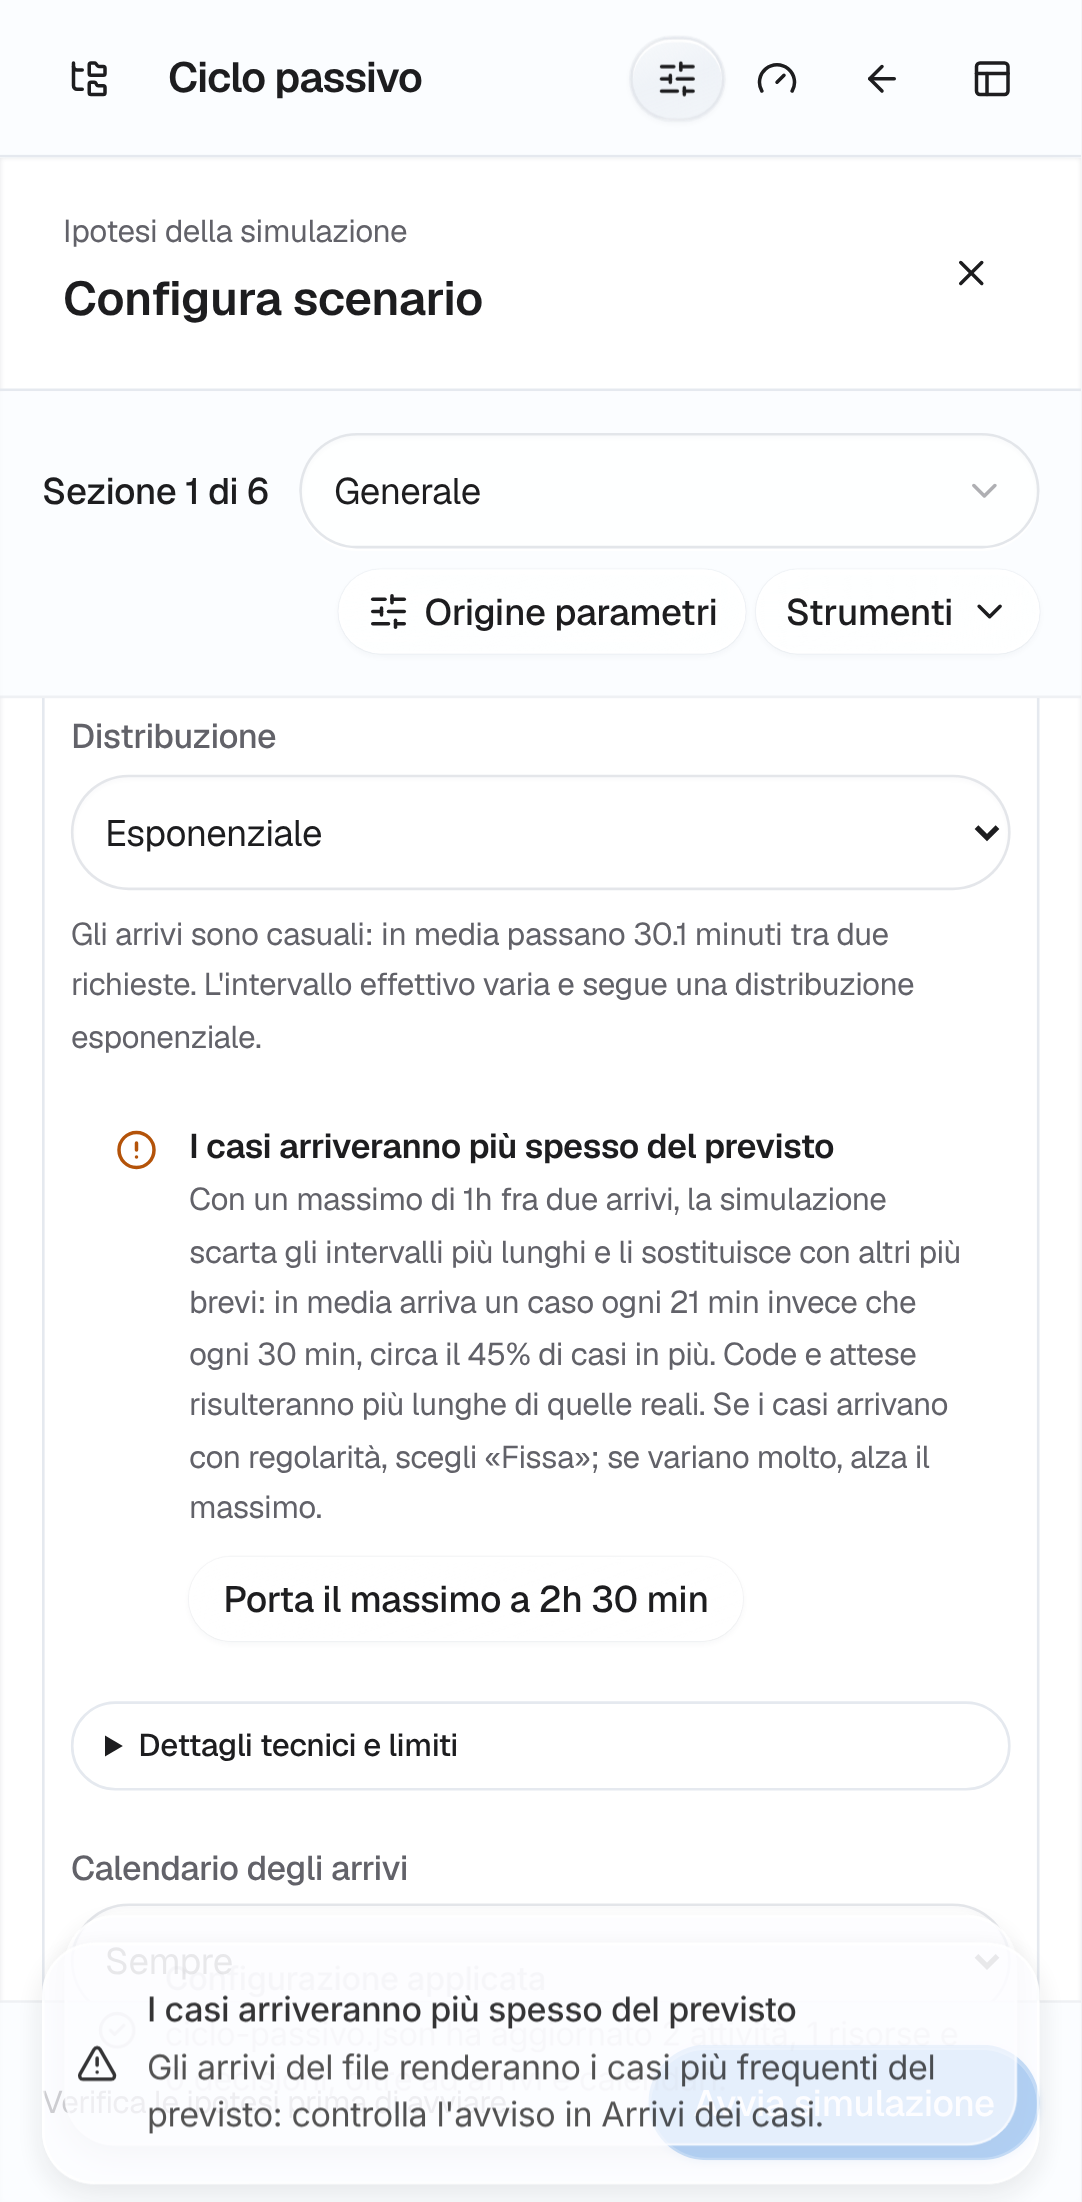
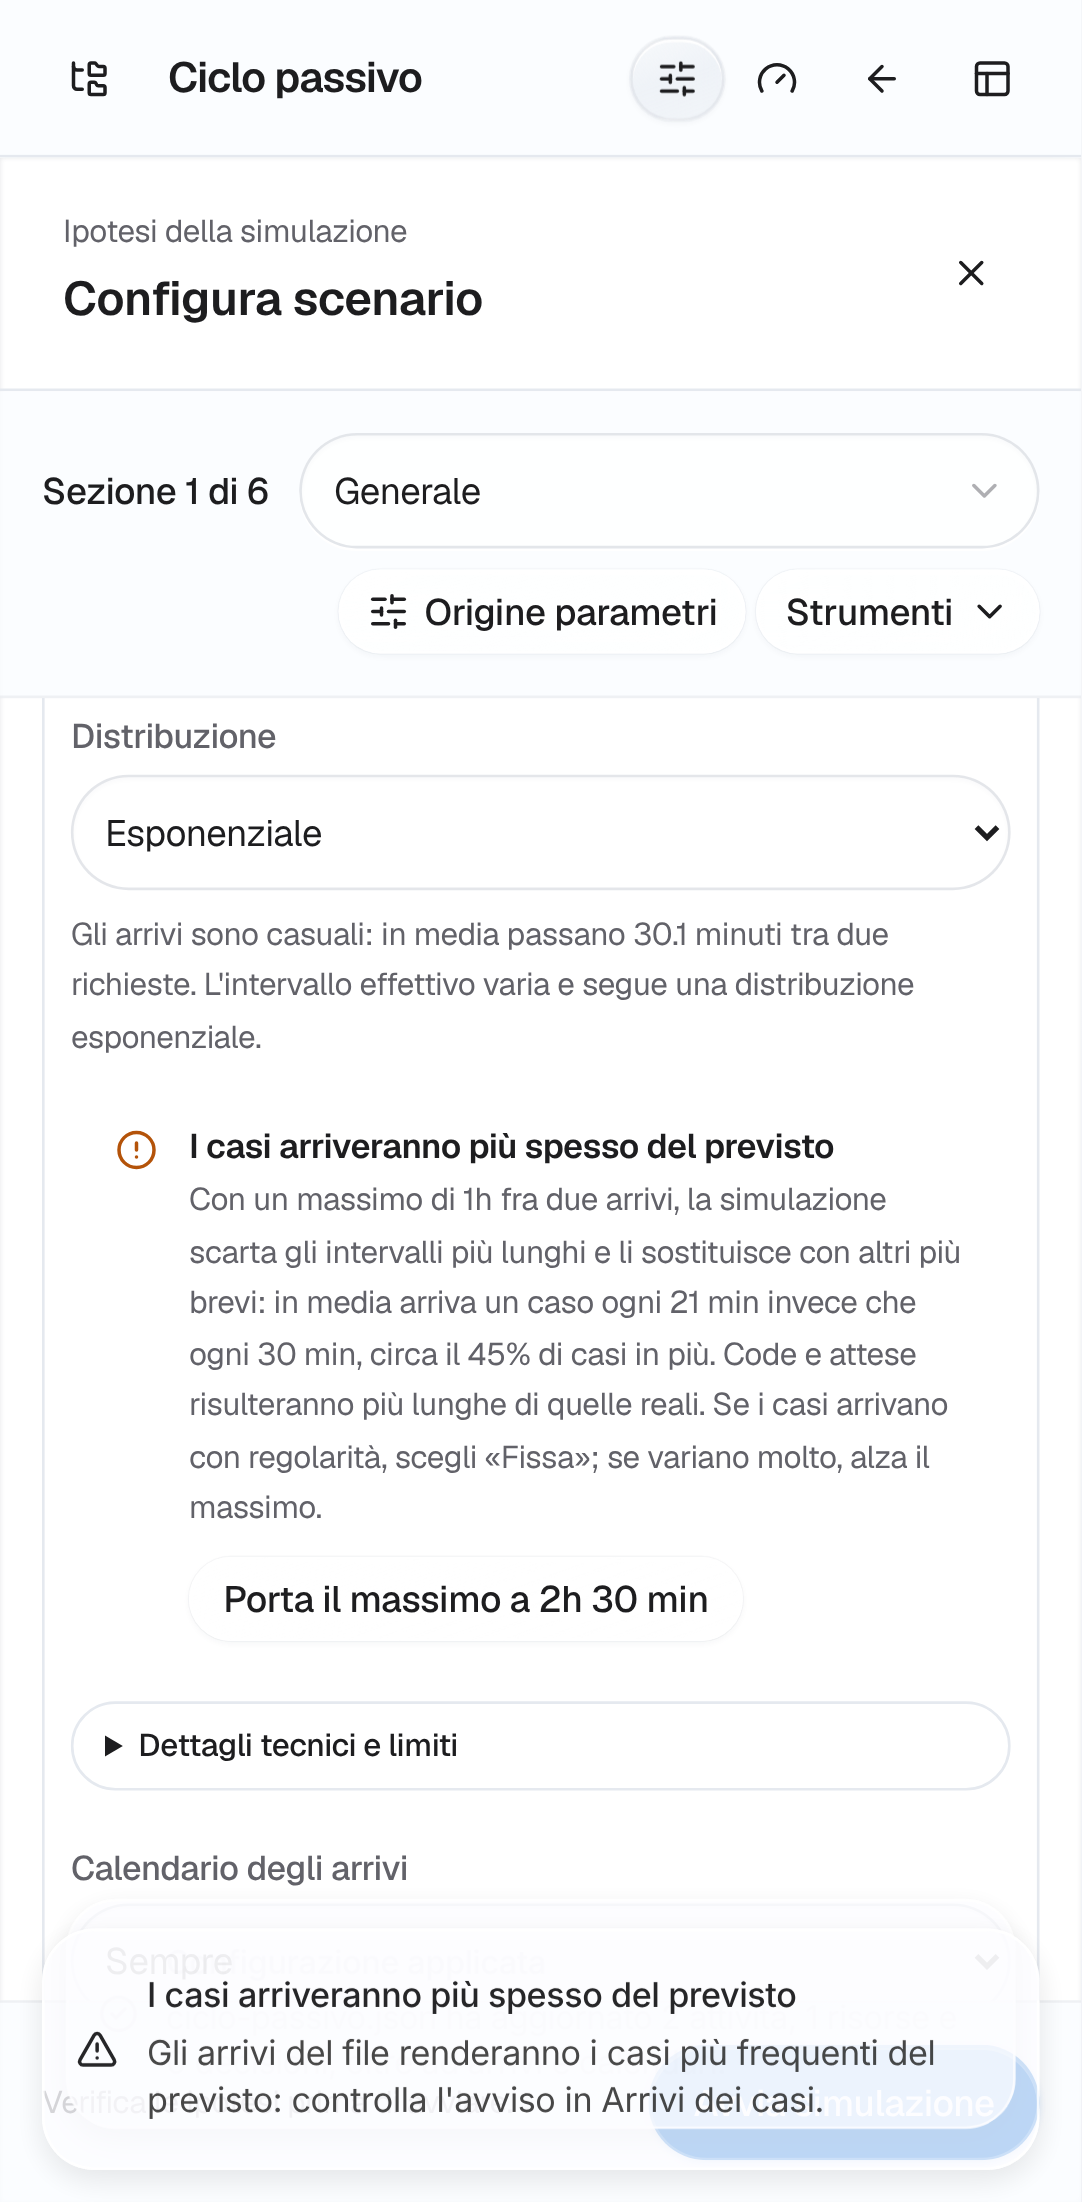
docs(vpt): IMP-01 done in plan, handoff and log

Changed region(s): [[0.061, 0.8955, 0.9455, 0.9882]]

diff --git a/docs/vpt/LOG.md b/docs/vpt/LOG.md
@@ -18,6 +18,47 @@ Modello:
 
 ---
 
+## 2026-11-24 — IMP-01 avviso sugli arrivi troncati — fatto
+
+- Branch / PR: `feat/sim-import-expon-warning`.
+- Meta: importando uno scenario con arrivi `expon` e media vicina al massimo, DeliR
+  avvisa in linguaggio di business con cosa cambia e cosa fare; lo scenario resta
+  com'era; avvisano le 4 Procure_to_Pay, nessuno dei 15 altri; gate UX → raggiunta.
+  Misura: `tests/simulation/test_prosimos_import.py` 118/118 (19 scenari: 4 avvisano,
+  15 no; arrivi ricompilati identici al file), API 2 test sullo stack reale, e2e
+  `simulation-import-arrivals` 4/4 (chromium e mobile-chrome, axe pulito, controllo
+  anti-gergo), vitest simulazione 452/452, `tests/simulation` sullo stack 746 passati.
+- Iterazioni: 1) regola sul codice di pix_framework 0.15 (rifiuto e ricampionamento,
+  non taglio al massimo): media prodotta 1240,5 s contro 1241,8 campionati, +45%;
+  2) nota `warning` e pannello d'import; 3) prova col file vero: il consulente veniva
+  fermato da 3 ID di porte di unione da associare → il template li elenca; 4) gate UX:
+  su mobile il bottone schiacciava il testo in colonna e la media appariva
+  "30.083333333333332" → bottone sotto il testo, media a 3 cifre; 5) code review e
+  simplify.
+- Gate UX (`docs/vpt/ux/imp-01/`, desktop 1440 × 900 e Pixel 7, aperti e letti):
+  risposta e azione prima dei dettagli, nessun "esponenziale", "Prosimos", "node-…"
+  nel percorso ordinario, nessun testo tagliato dopo la correzione. "Prima" non
+  catturato: il flusso col file vero si fermava alla richiesta di associare gli ID.
+- Code review: `code-review` 8 rilievi, tutti corretti (avviso falso con ritmi per mese,
+  arrotondamento che azzerava i passi brevi, `withArrival` che perdeva i mesi, toast
+  senza avviso con limiti non validi, arrotondamento diverso Python/JS, unità scelte
+  prima di arrotondare, rimando in inglese a dettagli in italiano, HANDOFF). `simplify`
+  (4 revisori): porte di unione dal template del server invece di un parser BPMN nel
+  client, campi di mappatura calcolati una volta, secondi nell'avviso, golden
+  condiviso Python/TS, stesso controllo della lingua delle altre viste. Non applicati:
+  `arrivalsRunFaster` privato (lo usano i test e il golden), `_arrival_notes` che
+  restituisce una lista (stile delle altre note), calcolo pigro delle porte (sparito
+  col template). `backend/CODE_QUALITY.md`: tolto un `Any`; regola duplicata
+  frontend/backend motivata (l'editor valida le bozze senza chiamare il server) e
+  tenuta uguale dal golden. ast-grep 4 regole: 0 rilievi; ruff e mypy puliti. Nessuna
+  modifica ad autenticazione o isolamento: niente `security-review`.
+- Skill: `ui-visual-validator`, `code-review`, `simplify`.
+- Decisioni: soglia 10% fra media scritta e prodotta; correzione proposta "massimo ≥ 5
+  volte la media" (scarto 3%).
+- Prossimo passo: SIM-36b (in corso in parallelo), poi B3.
+
+---
+
 ## 2026-11-24 — G3 spike SIMOD — fatto
 
 - Branch / PR: `spike/sim-simod-discovery`.

diff --git a/docs/vpt/HANDOFF.md b/docs/vpt/HANDOFF.md
@@ -10,10 +10,40 @@ Nessuno. SIM-36, G3 e B6 sono chiusi. Prossimi secondo [`PLAN.md`](./PLAN.md):
 **SIM-36b** ("B = A" sui 3 log train/test) e **IMP-01** (avviso sugli arrivi troncati),
 poi **B3**, che parte dalla decisione G3 (sezione sotto).
 
-## IMP-01 (in corso dal 2026-11-24, `feat/sim-import-expon-warning`)
+## IMP-01 (fatto il 2026-11-24, `feat/sim-import-expon-warning`)
 
-Un agente su IMP-01, in parallelo con SIM-36b. Avviso all'import sugli arrivi `expon`
-con media vicina al massimo. Stato: iniziato, nessuna misura ancora.
+L'import avvisa quando Prosimos 2.1 renderà gli arrivi più fitti del file. Meta
+raggiunta: avvisano le 4 varianti di Procure_to_Pay, nessuno dei 15 altri scenari;
+lo scenario resta com'era (arrivi identici nell'IR e nel JSON ricompilato).
+
+```bash
+uv run pytest --noconftest -q tests/simulation/test_prosimos_import.py      # 19 scenari + golden
+eval "$(scripts/vpt_stack.sh env)" && uv run pytest -q tests/simulation/test_prosimos_import_api.py
+npx playwright test e2e/simulation-import-arrivals.spec.ts                  # DELIR_UX_SHOTS=docs/vpt/ux/imp-01 per gli screenshot
+```
+
+- **Regola:** pix_framework 0.15 estrae da `expon(loc=min, scale=mean-min)` e scarta
+  (ricampiona) i valori oltre il massimo: media prodotta
+  `min + s - R·e^(-R/s)/(1-e^(-R/s))`, `R = max-min`. Si avvisa se è più bassa di oltre
+  il 10% della media scritta. Procure_to_Pay: 1805 s scritti, 1240,5 s prodotti
+  (campionati: 1241,8), +45% di casi. Nessun avviso se gli arrivi li genera il runner
+  (fasce o ritmi per mese).
+- **Dove vive:** `prosimos_exponential_mean`/`_arrival_notes` in
+  `backend/simulation/ir/from_prosimos.py` (nota `warning`, topic `arrivals_faster`) e
+  `arrivalsRunFaster`/`draftArrivalsRunFaster` in `simulationScenario.ts` per l'editor.
+  Le due copie le tiene uguali `tests/fixtures/simulation/arrivals_truncation_golden.json`.
+- **UI:** nel pannello d'import "Da verificare" senza la parola "adattamenti"
+  (nuovo tipo di nota `warning`: lo scenario non cambia); nell'editor un avviso in
+  Arrivi dei casi con il bottone "Porta il massimo a …" (5 volte la media) e un toast
+  all'import.
+- **Trovato per strada:** col file vero il consulente veniva fermato prima dell'avviso
+  da una richiesta di associare 3 ID tecnici (porte di sola unione). Ora il template
+  del server elenca le porte di unione (`merges`) e il client non le chiede più.
+  Corretto anche `withArrival`, che perdeva i ritmi per mese a ogni modifica degli arrivi.
+- **Seguiti proposti (non fatti):** la frase sotto la media degli arrivi dice ancora
+  "segue una distribuzione esponenziale" e mostra "30.1" col punto; i dettagli delle
+  note del server sono solo in italiano; un run lanciato fuori dalla UI non riceve
+  l'avviso (servirebbe una nota a livello di run).
 
 ## B6 (fatto il 2026-11-24, `spike/sim-throughput`)
 

diff --git a/docs/vpt/PLAN.md b/docs/vpt/PLAN.md
@@ -39,7 +39,7 @@ Stato: `da fare` · `in corso` · `bloccato` · `fatto`.
 | B1b import dal frontend tramite il server | `feat/sim-prosimos-import-ui` | Prod | Uno scenario che l'editor non sa rappresentare (oggi tutti quelli SIMOD) si importa dal server e si simula così com'è; il report d'import si legge in linguaggio di business; gate UX | `tests/simulation/test_prosimos_import_api.py` + e2e + gate UX | B1a | fatto (2026-11-24) |
 | SEC-ADMIN admin implicito | `ccr-9b6e10c9-jmjsbm` | Prod | Fuori da dev/local/test, senza `DELIR_ADMIN_TOKEN` nessun client è amministratore e le cancellazioni rispondono 403 | `tests/server/test_app.py` | — | fatto (2026-11-24) |
 | CAL-01 calendari probabilistici (FUZZY) di SIMOD | `feat/sim-fuzzy-calendars` | Prod | Uno scenario SIMOD con calendari FUZZY si importa senza perdere la disponibilità probabilistica delle risorse, si ricompila identico e gira sul runner Prosimos 2.1; nessun rifiuto per FUZZY | test di import e round trip su uno scenario FUZZY scoperto da SIMOD sul dataset + run sul runner | B1a | fatto (2026-11-24) |
-| IMP-01 avviso sugli arrivi troncati | `feat/sim-import-expon-warning` | Prod | Importando uno scenario con arrivi `expon` la cui media è vicina al massimo (Prosimos 2.1 li tronca: arrivi più fitti e code più lunghe del log), DeliR avvisa il consulente in linguaggio di business, con cosa cambia e cosa fare; lo scenario resta com'era. Avvisano le 4 varianti di Procure_to_Pay, nessuno dei 15 altri scenari di `datasets/extraneous-delays/inputs`; gate UX | test di import sui 19 scenari + e2e + gate UX | B1a | in corso (2026-11-24) |
+| IMP-01 avviso sugli arrivi troncati | `feat/sim-import-expon-warning` | Prod | Importando uno scenario con arrivi `expon` la cui media è vicina al massimo (Prosimos 2.1 li tronca: arrivi più fitti e code più lunghe del log), DeliR avvisa il consulente in linguaggio di business, con cosa cambia e cosa fare; lo scenario resta com'era. Avvisano le 4 varianti di Procure_to_Pay, nessuno dei 15 altri scenari di `datasets/extraneous-delays/inputs`; gate UX | test di import sui 19 scenari + e2e + gate UX | B1a | fatto (2026-11-24): 4/4 Procure_to_Pay avvisano, 0/15 altri; e2e 4/4, screenshot in `docs/vpt/ux/imp-01/` |
 | Track B isolamento tenant | vedi `docs/deployment-and-tenancy.md` | Prod | Test cross-tenant su API, worker, memoria e checkpoint verdi | suite cross-tenant | VM e dominio: Sohayb li sblocca (deciso il 2026-11-24) | bloccato |
 
 ### UX — Leggibilità (regola: mangiare la complessità)
